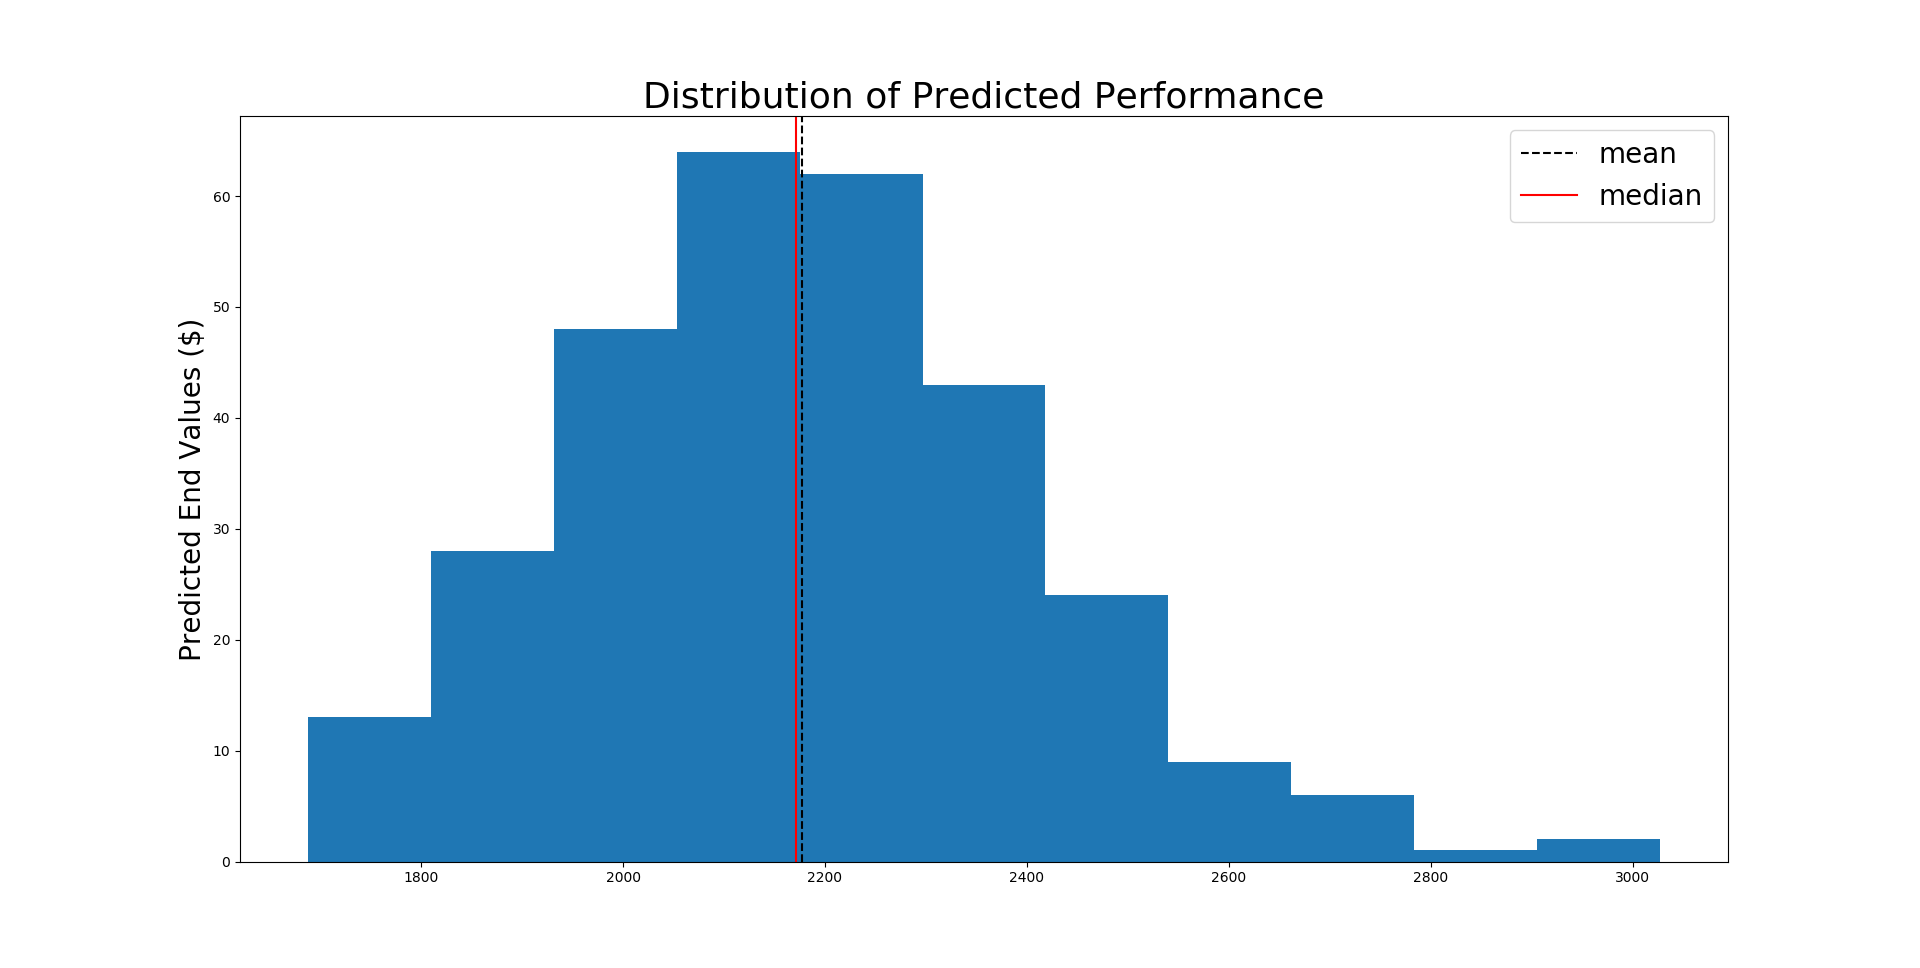
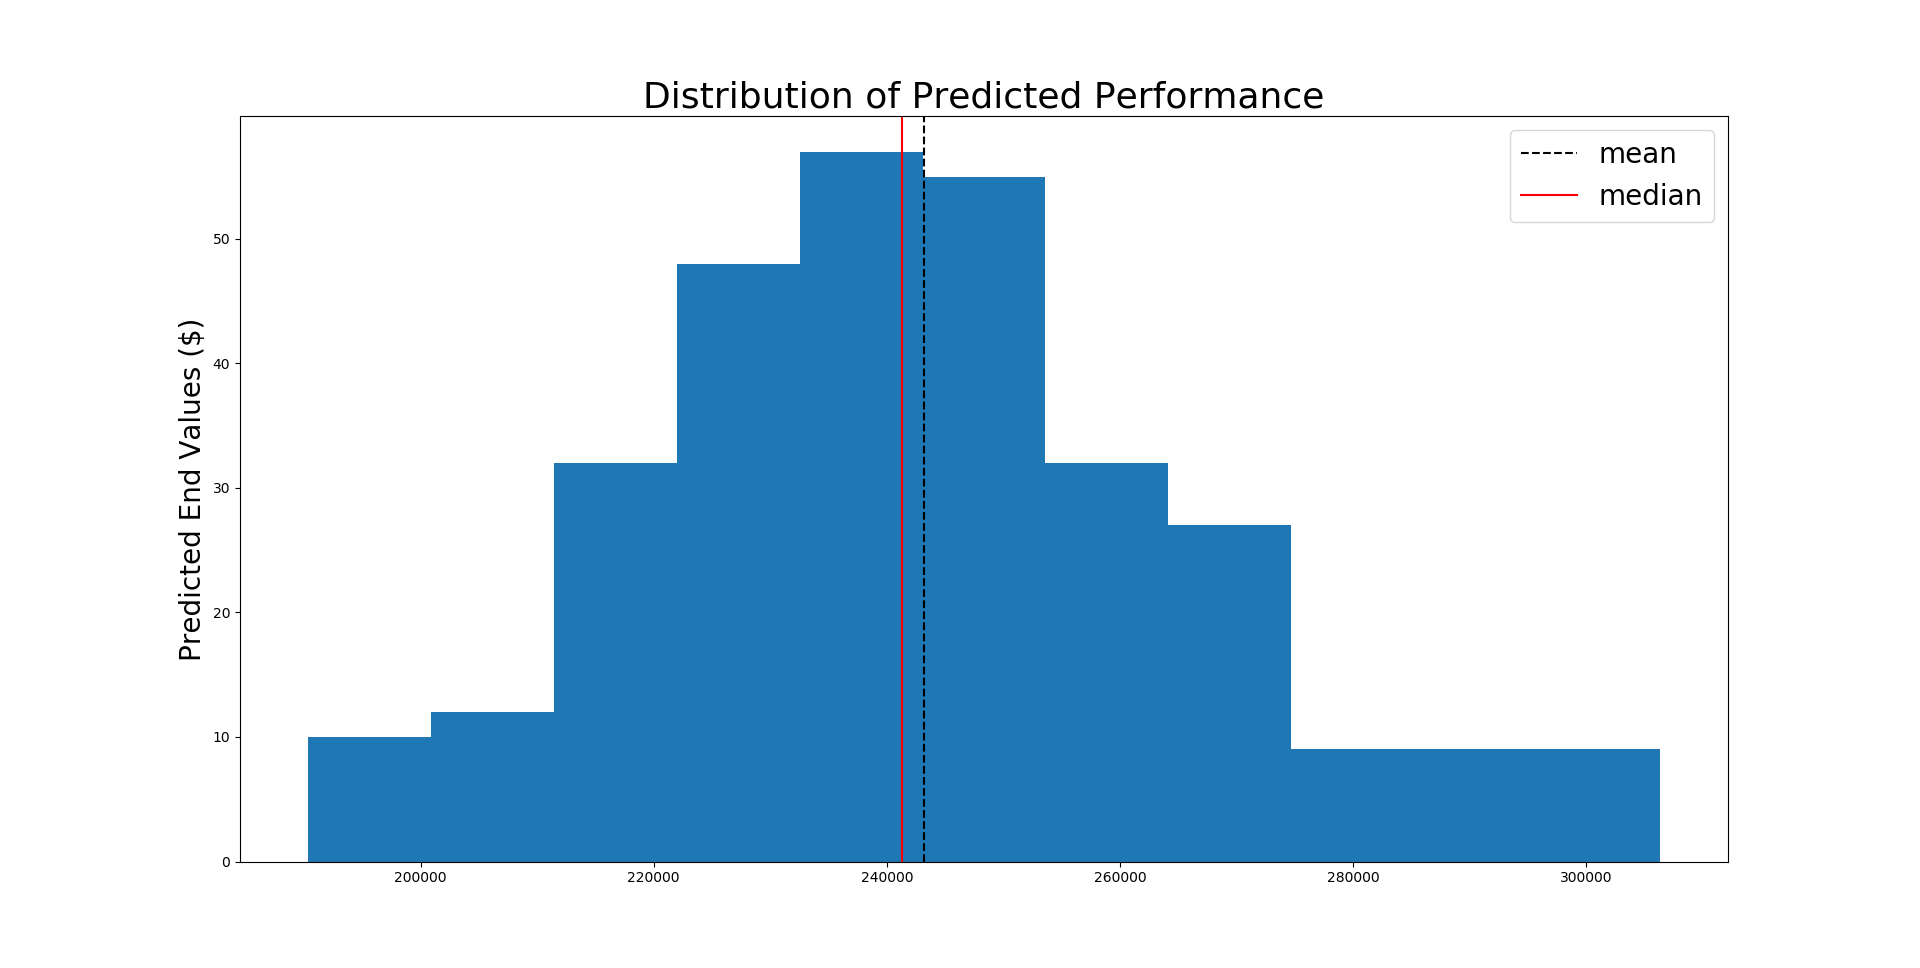
final again

diff --git a/python/snp_and_predict_price_final.py b/python/snp_and_predict_price_final.py
@@ -14,6 +14,7 @@ list_last_point = []
 test = []
 total = []
 txt = ''
+
 def total_volume(stocks, shares):
     global test
     global total
@@ -22,12 +23,11 @@ def total_volume(stocks, shares):
     month = int(dt.datetime.today().strftime('%m'))
     start = dt.datetime(2018,1,1)
     end = dt.datetime(year, month, day)
-    for k in stocks:
-        df = web.DataReader(k, 'yahoo', start, end)
+    for k in range(len(stocks)):
+        df = web.DataReader(stocks[k], 'yahoo', start, end)
         df1 = df[['Close']]
         data = df1.values
-        for j in shares:
-            data = [x*j for x in data]
+        data = [x * shares[k] for x in data]
         test.append(data)
     total = [sum(x) for x in zip(*test)]
     total = [float(x) for x in total]
@@ -139,7 +139,7 @@ def plot_trendline(days=100):
     plt.plot([days-1, (days*2)-1], [total[-1], val], 'ks-', markersize=12, linewidth=5)
     return val
     
-def run_all(stocks = ['AMZN'], shares = [1], days=100):
+def run_all(stocks = ['AMZN', 'MSFT', 'CRM', 'MU', 'COF', 'IBM', 'V', 'BABA', 'F'], shares = [100,50, 10, 200, 50, 10, 20, 30, 10], days=100):
     global txt
     total_volume(stocks, shares)
     plot_function(days)
@@ -187,3 +187,5 @@ plt.text(0.5,0.9, txt, ha = 'center', va = 'center', transform = ax.transAxes, f
 plt.savefig("graph.png")
 plt.figure(2)
 plt.savefig("histo.png")
+#, 'MSFT', 'CRM', 'MU', 'COF', 'IBM', 'V', 'BABA', 'F'
+#,50, 10, 200, 50, 10, 20, 30, 10
